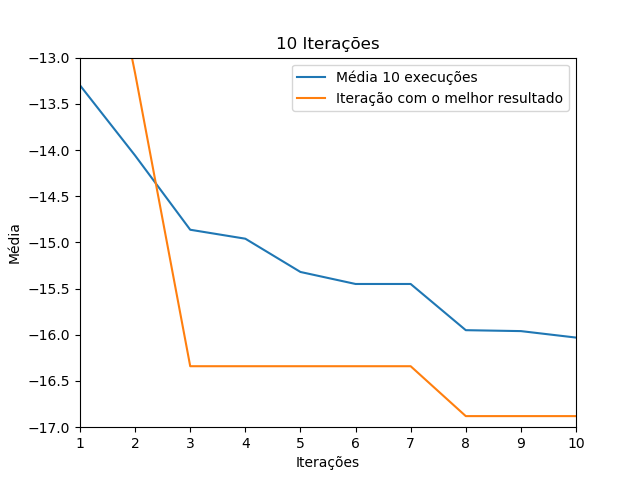
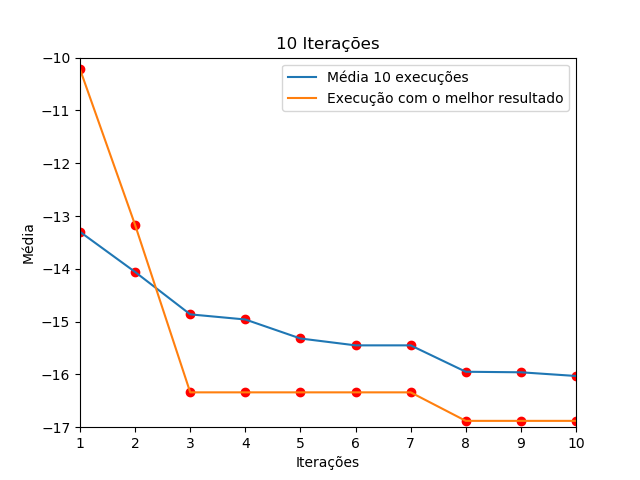
Correções_Gráficos

diff --git a/grafico.py b/grafico.py
@@ -15,21 +15,25 @@ tipo = int(input("GRAFICO DE 10 ou 20 ITERAÇÕES?? (Digite 10 ou 20): "))
 
 if(tipo == 10):
 	matplotlib.pyplot.plot(iteracoes10, valoresmedia10, label ="Média 10 execuções")
-	matplotlib.pyplot.plot(iteracoes10, melhor10, label = "Iteração com o melhor resultado")
+	matplotlib.pyplot.plot(iteracoes10, melhor10, label = "Execução com o melhor resultado")
+	matplotlib.pyplot.scatter(iteracoes10, valoresmedia10, color='red')
+	matplotlib.pyplot.scatter(iteracoes10, melhor10, color='red')
 	matplotlib.pyplot.title("10 Iterações")
 	matplotlib.pyplot.xlabel("Iterações")
 	matplotlib.pyplot.ylabel("Média")
 	matplotlib.pyplot.legend()
 	matplotlib.pyplot.xlim(1, 10)
-	matplotlib.pyplot.ylim(-17.00,-13.00)
+	matplotlib.pyplot.ylim(-17.00,-10.00)
 	matplotlib.pyplot.show()
 else:
 	matplotlib.pyplot.plot(iteracoes20, valoresmedia20, label ="Média 10 execuções")
-	matplotlib.pyplot.plot(iteracoes20, melhor20, label="Iteração com o melhor resultado")
+	matplotlib.pyplot.plot(iteracoes20, melhor20, label="Execução com o melhor resultado")
+	matplotlib.pyplot.scatter(iteracoes20, valoresmedia20, color='red')
+	matplotlib.pyplot.scatter(iteracoes20, melhor20, color='red')
 	matplotlib.pyplot.title("20 Iterações")
 	matplotlib.pyplot.xlabel("Iterações")
 	matplotlib.pyplot.ylabel("Média")
 	matplotlib.pyplot.legend()
 	matplotlib.pyplot.xlim(1,20)
-	matplotlib.pyplot.ylim(-17,-12)
+	matplotlib.pyplot.ylim(-17,-11)
 	matplotlib.pyplot.show()
